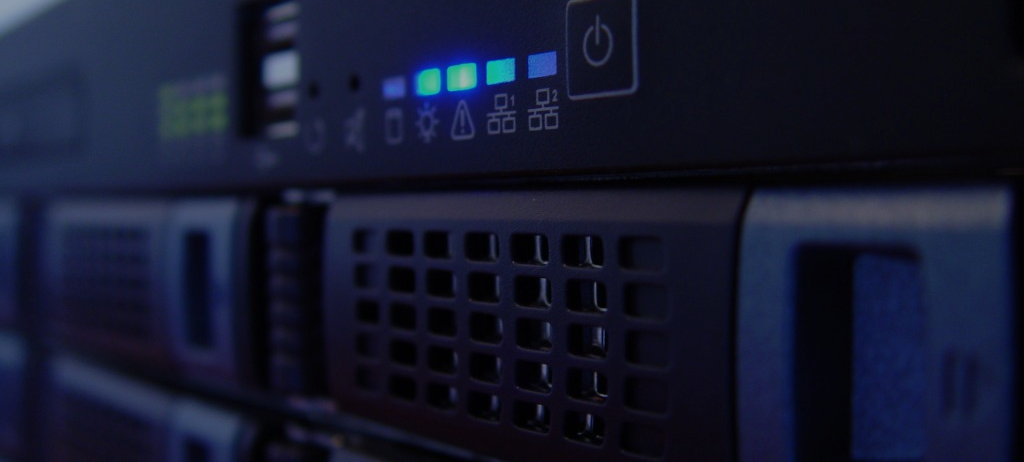
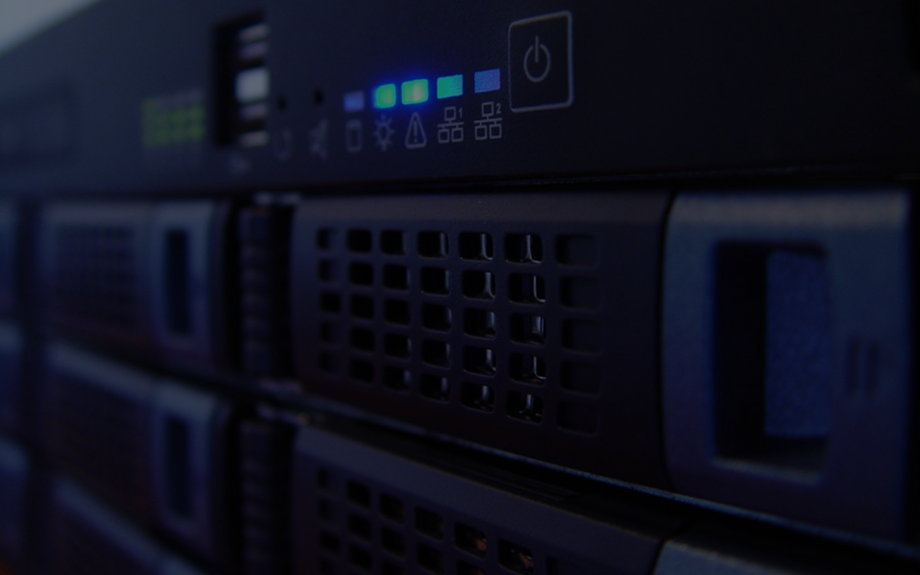
v1.0b

diff --git a/app/assets/stylesheets/application.css.scss b/app/assets/stylesheets/application.css.scss
@@ -185,9 +185,12 @@ body ul {
   font-family:        impact;
   position:           relative;
 }
-.tabmenuheader a, .tabmenu li a {
+.tabmenuheader span, .tabmenu li a {
   text-decoration:    none;
   color:              #ddd;
+}
+.tabmenuheader span:hover {
+  cursor:             default;
 }
 /* TAB MENUS */
 .tabmenu {
@@ -197,13 +200,15 @@ body ul {
   border-radius:      0 0 8px 8px;
   box-shadow:         0 0 4px black;
   background:         #050505;
+  margin-left:        10px;
+  width:              210px;
 }
 .tabmenu li {
   float:              none;
   text-align:         left;
-  width:              200px;
   padding-left:       30px;
   text-shadow:        0 1px 1px black;
+  width:              180px;
 }
 .tabmenu li:last-child {
   border-radius:      0 0 8px 8px;
@@ -217,34 +222,37 @@ body ul {
 #maincontainer {
   background:         url("/assets/containerbg_home.jpg");
   width:              920px;
-  height:             415px;
+  min-height:         415px;
   position:           relative;
   top:                1px;
 }
-.maincontainer_caption {
+.maincontainer_content {
   height:             330px;
   width:              520px;  
   position:           absolute;
-  top:                50px;
+  top:                20px;
   left:               40px;
   letter-spacing:     -1px;
 }
-.maincontainer_caption h1, .maincontainer_caption h2 {
+.maincontainer_content.home {
+  top:                50px;
+}
+.maincontainer_content h1, .maincontainer_content h2 {
   color:              #ddd;
   text-shadow:        0 0 15px black, 0 0 15px black;
   font-size:          30px;
   margin-bottom:      40px;
 }
-.maincontainer_caption h1:hover, .maincontainer_caption h2:hover {
+.maincontainer_content h1:hover, .maincontainer_content h2:hover {
   cursor:             default;
 }
-.maincontainer_caption h1 span {
+.maincontainer_content h1 span {
   text-shadow:        3px 0 15px black, 3px 0 15px black;
 }
 .flux {
   color:              $links;
 }
-.maincontainer_caption h2 {
+.maincontainer_content h2 {
   font-size:          24px;
   line-height:        40px;
 }

diff --git a/app/assets/stylesheets/servicios.css.scss b/app/assets/stylesheets/servicios.css.scss
@@ -3,4 +3,72 @@ $links:               #0c5eff;
 /* MAIN CONTAINER */
 #maincontainer.servicios {
   background:         url("/assets/containerbg_servicios.jpg");
+  min-height:         500px;
+}
+.serviciosheader {
+  margin-bottom:      20px !important;
+}
+
+#servicios_list {
+  width:              840px;
+  overflow:           auto;
+}
+#servicios_list h3 {
+  margin-left:        10px;
+  margin-top:         10px;
+  margin-bottom:      10px;
+  color:              #ddd;
+  text-shadow:        0 0 15px black, 0 0 15px black;
+  font-size:          20px;
+  width:              315px;
+  transition:         all 0.1s;
+  -moz-transition:    all 0.1s;
+  -webkit-transition: all 0.1s;
+  -o-transition:      all 0.1s;
+  -ms-transition:     all 0.1s;
+}
+#servicios_list h3.hovered {
+  color:              white;
+  cursor:             default;
+}
+.servicioslist {
+  float:              left;
+  width:              420px;
+  margin-bottom:      20px;
+}
+.servicioslist ul {
+  margin-left:        25px;
+  background:         rgba(0, 0, 0, 0.5);
+  width:              280px;
+  border-radius:      5px;
+  padding:            10px;
+  transition:         all 0.3s;
+  -moz-transition:    all 0.3s;
+  -webkit-transition: all 0.3s;
+  -o-transition:      all 0.3s;
+  -ms-transition:     all 0.3s;
+}
+.servicioslist ul.hovered {
+  background:         rgba(0, 0, 0, 0.6);
+}
+.servicioslist ul li {
+  padding:            5px;
+  border-radius:      2px;
+  margin-top:         2px;
+  margin-bottom:      2px;
+  text-indent:        10px;
+}
+.servicioslist ul li:hover {
+  background:         url("/assets/extrabutton.png");
+  cursor:             pointer;
+}
+.servicioslist ul li:hover a {
+  color:              white;
+}
+.servicioslist ul a {
+  text-decoration:    none;
+  color:              #ddd;
+  font-weight:        bold;
+  text-shadow:        0 0 15px black, 0 0 15px black;
+  display:            block;
 }

diff --git a/app/assets/stylesheets/contacto.css.scss b/app/assets/stylesheets/contacto.css.scss
@@ -10,6 +10,9 @@ $links:               #0c5eff;
 .formcontainer {
   margin-bottom:      16px;
 }
+#formcontainer_msj {
+  margin-bottom:      20px;
+}
 .formcontainer input, .formcontainer textarea {
   width:              500px;
   text-indent:        5px;
@@ -32,9 +35,10 @@ $links:               #0c5eff;
   background:         url("/assets/button.png");
   box-shadow:         0 0 10px black, 0 0 10px black;
   border:             none;
-  width:              139px;
-  height:             44px;
+  width:              137px;
+  height:             42px;
   font-weight:        bold;
+  border-radius:      5px;
 }
 #contactsubmit:hover {
   background:         url("/assets/button_hover.png");

diff --git a/app/assets/javascripts/application.js b/app/assets/javascripts/application.js
@@ -30,6 +30,17 @@ $(document).ready(function() {
     return false;
   });
   
+  // SERVICIOS DETAILS WHEN HOVERED
+  $("#servicios_list h3").hover(function() {
+    $(this).toggleClass("hovered");
+    $(this).next(".servicioslist ul").toggleClass("hovered");
+  });
+  $(".servicioslist ul").hover(function() {
+    $(this).toggleClass("hovered");
+    $(this).prev("#servicios_list h3").toggleClass("hovered");
+  });
+  
+  
   // DEAL WITH PLACEHOLDERS IF BROWSER SUCKS AND DOES NOT FULLY SUPPORT HTML5
   // [ http://www.cssnewbie.com/cross-browser-support-for-html5-placeholder-text-in-forms/ ]
   jQuery(function() {
